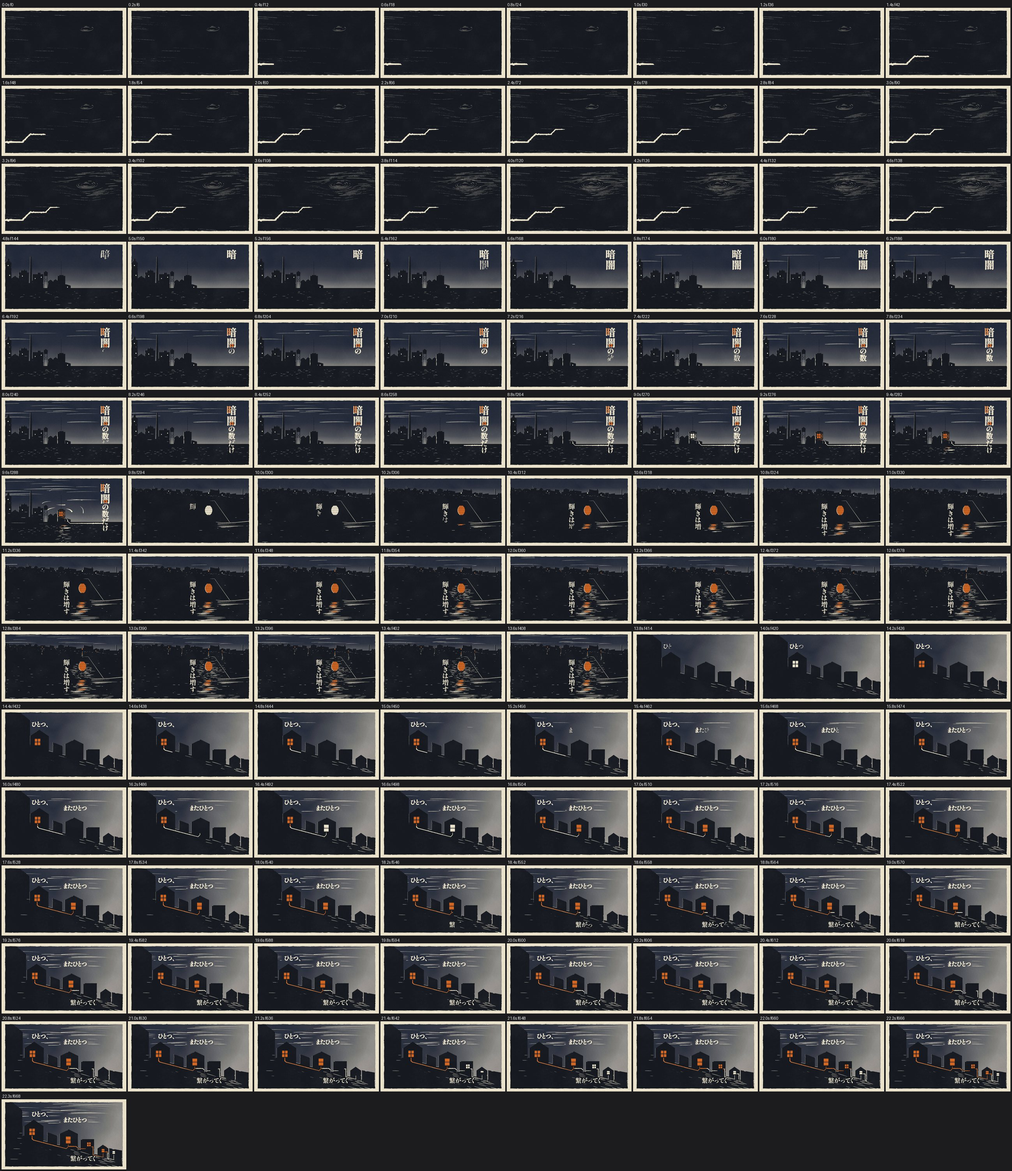
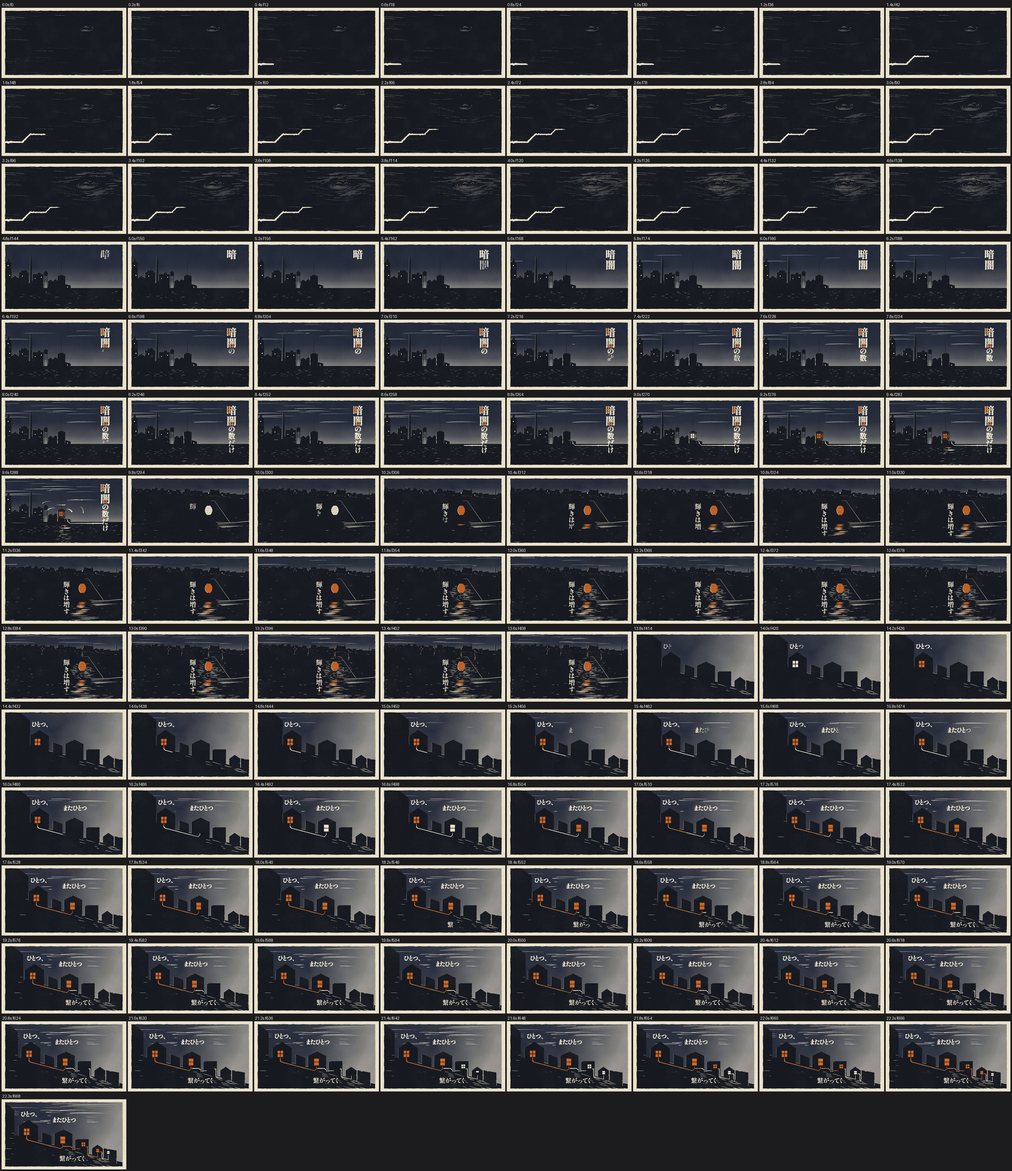
mv-yoake art v7 第2段: 区間 A2 の最終の書き出し(S4 の 2.5D 強め)の確認画像と実測、MOTION_PART2_REVIEW の仕上げ
Claude-Session: https://claude.ai/code/session_01DHqeTrY16kMSHw1xjVFCqk

diff --git a/claude-video-skill/examples/mv-yoake/art-direction/MOTION_PART2_REVIEW.md b/claude-video-skill/examples/mv-yoake/art-direction/MOTION_PART2_REVIEW.md
@@ -15,7 +15,7 @@
 | 2.5D の比較(2回目、見て分かる強さ) | `/tmp/claude-0/-home-user-codeX/d5574950-8955-5b0b-bf13-7c6be25a8755/scratchpad/mv2d/yoake_25d_test_dawn_25d_v2.mp4`・`yoake_25d_test_dawn_sidebyside_v2.mp4`、`/tmp/claude-0/-home-user-codeX/d5574950-8955-5b0b-bf13-7c6be25a8755/scratchpad/mv2d/yoake_25d_test_s4_2d.mp4`・`yoake_25d_test_s4_25d_v2.mp4`・`yoake_25d_test_s4_sidebyside_v2.mp4`(1回目の S4 は `yoake_25d_test_s4_25d.mp4`・`_sidebyside.mp4`) |
 | 効果を切った版(clean、音なし) | `/tmp/claude-0/-home-user-codeX/d5574950-8955-5b0b-bf13-7c6be25a8755/scratchpad/mv2d/m2/video_{A,M,B}_clean.mp4` |
 | 540px 幅の 0.2 秒刻み(大きいので repo の外) | `/tmp/claude-0/-home-user-codeX/d5574950-8955-5b0b-bf13-7c6be25a8755/scratchpad/m2/sheets_{A,M,B}/*_contact_0.2s_540.jpg`、`*_check_540.jpg` |
-| 確認画像(repo、JPEG) | `frames/motion2/`: `{A2,M,B2}_contact_0.2s.jpg`(0.2 秒刻み)、`*_boundaries.jpg`(カットの境目)、`*_fx_off_clean.jpg`(look と clean)、`A2_check_540.jpg`、2.5D の比較 `test25d_*.jpg`・`test25d_still.txt`、太陽の直し `fix_sun_1431_1520.jpg` |
+| 確認画像(repo、JPEG) | `frames/motion2/`: `{A2,M,B2}_contact_0.2s.jpg`(0.2 秒刻み)、`*_boundaries.jpg`(カットの境目)、`*_fx_off_clean.jpg`(look と clean)、2.5D の比較 `test25d_*.jpg`・`test25d_still.txt`、太陽の直し `fix_sun_1431_1520.jpg` |
 | 実測(repo) | `frames/motion2/measure_{A2,M,B2}/`: `sync_measured.md`(音ハメ)、`lyric_check.md`(歌詞の可読)、`measure.json`、`review_*.txt`(review_checks)、`*_summary.json`(刀の入れ替わり・seek・別ページの照合)、`hyperframes_check.txt` |
 | 描画 | `src/cand_a7_cam.js`(2.5D の層のカメラ)、`src/cand_a7_mid.js`(S5〜S9)、`src/cand_a7_open.js`(S1〜S4。S4 の 2.5D と枝分かれ、S3・S1 の音ハメ)、`src/cand_a7_dawn.js`(夜明け。A の 2.5D、太陽、1349)、`src/cand_a7.js`(ばれんの消去を画面座標に)、`src/cand_a7_cuts.js`(`A7_DRAW`、`A7_CAM_DEFAULT = true`)。開発ページ `src/styleframes_v7.html?f=<曲のコマ>&v=look|clean|mask[&cam=0|1]` |
 | 道具 | `src/motion1/tools/`: `partrange.py`(区間の名前)、`build_hf.sh`・`render_part.sh`(区間・cam を指定)、`measure.py`(区間 M を追加)、`flicker_check.mjs`(cam を指定)・`flicker_where.mjs`(戻った画素の場所)、`seek_check.mjs`(`SEEK_EVERY`)、`still.py`・`pairs.py`・`sbs.sh`(静止の物差し・並べた比較)。間の台帳 `holds_part{A,M,B}.json` |
@@ -139,15 +139,15 @@ MOTION_PART1_REVIEW §9 の計画どおり。絵は v6 の S5・S7・S8・S9 と
 | 黒コマ・白フラッシュ | **PASS**(平均の明るさの最小 54.8) | **PASS**(54.3) | **PASS**(68.7) | `measure.json`、`review_*.txt` |
 | 音量(曲のまま、区間で切った物) | -14.2 LUFS / -2.5 dBTP | -13.4 LUFS / -3.1 dBTP | -13.3 LUFS / -2.7 dBTP | `review_*.txt` |
 | seek 決定性(`tl.seek(t,false)` 順・`hf-seek` 逆順・飛ばし2通り) | **PASS: ALL_SAME**(3 コマごと 223 コマ×4 通り) | **PASS: ALL_SAME**(2 コマごと 336 コマ×4 通り) | **PASS: ALL_SAME**(2 コマごと 125 コマ×4 通り) | `measure_*/seek_summary.json` |
-| 別のプロセス・別のページ(開発ページ)との照合 | <<A_DEV>> | **一致** 10/10 コマ | **一致** 8/8 コマ | `devhash_summary.json` |
+| 別のプロセス・別のページ(開発ページ)との照合 | **一致** 8/8 コマ | **一致** 10/10 コマ | **一致** 8/8 コマ | `devhash_summary.json` |
 | 刀の入れ替わり(cam=0) | 合計 42 画素、最大 12(243) | 合計 115 画素、最大 22(954: S7 の大きい字の粗彫りの縁のにじみ)。50 画素を超えるコマ 0 | 合計 27 画素、最大 3。**1349 は 1 画素**(第1段 139) | `flicker_cam0_summary.json` |
 | 2.5D のカメラの動き | S4: 段の頭で主の層 約 5px/コマ、手前の家 約 7px/コマ。往復・手ぶれなし | S8: 一定 約 1px/コマ | 夜明け A: 段の頭で前景の端 約 8px/コマ。1402 で止まる | 式から(`cand_a7_cam.js`、各カットの `A7_CAM.set`) |
 | 音ハメ(強いアクセント 0.7 以上の事象) | **全部 ±1 以内**(104: 0、350: 0、387: 0、第1段は -2・+2・+2) | 755・769・812・1198 は 0。押しの事象も ±1(802 だけ -3: 押しの間が 4 コマで、前の押しの山と区別できない測り方の限界)。窓・列車の琥珀は「拍のコマで彫り、2 コマ後に刷る」設計どおり +2 | 1340: +1、1349〜1397: 0、1415・1425・1481・1462・1538: 0、1557: -1 | `sync_measured.md` |
 | 歌詞の可読 | 25 字とも語頭から 0〜+1 コマで彫り始め。読める(85%)のは +10 以内。ただし「く」(558)は測定で +32: 2.5D で字が動いて測る箱からずれたため。等倍で見て +5 で読める(確認済み) | 43 字とも 0〜+1 で彫り(刷り)始め、+7 以内に読める | 5 字と題: 第1段と同じ(+1〜で刷り始め) | `lyric_check.md` |
 | 静止(`review_checks.py`) | **FAIL(合計の予算)**: 0.6 秒を超える静止は 0(登録した間を除く)。0.2〜0.37 秒の拍待ちが 8 か所で合計 3.9 秒 > 予算 0.74 秒。**S4 後半の静止(第1段の FAIL)は解消** | **FAIL(合計の予算)**: 0.6 秒を超える静止は 0(登録した 2 つを除く)。0.2〜0.53 秒の拍待ちが合計 3.6 秒 | **PASS**(台帳つき。台帳が全体の 53% の注意は第1段と同じ) | `review_*.txt`、`holds_part{A,M,B}.json` |
 | hyperframes lint | **PASS** 0 エラー・0 警告 | **PASS** | **PASS** | — |
-| hyperframes check | <<A_CHK>> | **PASS**(エラー 0。警告 `canvas_content_at_edge`=S6 は紙のふちを外した全面、`film_silent`=音は書き出し後に ffmpeg で付ける) | **PASS**(エラー 0。警告 `canvas_content_at_edge`=夜明けは全面) | `measure_*/hyperframes_check.txt` |
-| 540px・clean | 語頭+10 で字は全部読める。動きは clean でも全部残る(動きは刀の形と刷りの 0/1 と層の位置だけ) | 同じ | 同じ | `*_check_540.jpg`(repo の外)、`*_fx_off_clean.jpg` |
+| hyperframes check | **PASS**(エラー 0。警告 `film_silent`=音は書き出し後に ffmpeg で付ける。情報 `audio_none`) | **PASS**(エラー 0。警告 `canvas_content_at_edge`=S6 は紙のふちを外した全面、`film_silent`=音は書き出し後に ffmpeg で付ける) | **PASS**(エラー 0。警告 `canvas_content_at_edge`=夜明けは全面) | `measure_*/hyperframes_check.txt` |
+| 540px・clean | 540px のシートは repo の外(§0)。語頭+10 で字は全部読める。動きは clean でも全部残る(動きは刀の形と刷りの 0/1 と層の位置だけ) | 同じ | 同じ | `*_check_540.jpg`(repo の外)、`*_fx_off_clean.jpg` |
 
 ## 6. 完了 / 未実施 / 失敗 / 次の判断
 | 区分 | 内容 |

diff --git a/claude-video-skill/examples/mv-yoake/art-direction/frames/motion2/measure_A2/lyric_check.md b/claude-video-skill/examples/mv-yoake/art-direction/frames/motion2/measure_A2/lyric_check.md
@@ -12,16 +12,16 @@
 | 増 | 311 | 要確認 | 311 | +0 | 316 | +5 |
 | す | 319 | 要確認 | 319 | +0 | 324 | +5 |
 | ひ | 409 | 確認済み | 409 | +0 | 409 | +0 |
-| と | 413 | 確認済み | 413 | +0 | 420 | +7 |
-| つ | 417 | 確認済み | 417 | +0 | 424 | +7 |
-| 、 | 421 | 確認済み | 421 | +0 | 428 | +7 |
-| ま | 453 | 確認済み | 453 | +0 | 460 | +7 |
+| と | 413 | 確認済み | 413 | +0 | 413 | +0 |
+| つ | 417 | 確認済み | 417 | +0 | 417 | +0 |
+| 、 | 421 | 確認済み | 421 | +0 | 421 | +0 |
+| ま | 453 | 確認済み | 453 | +0 | 454 | +1 |
 | た | 457 | 確認済み | 457 | +0 | 466 | +9 |
-| ひ | 461 | 確認済み | 461 | +0 | 468 | +7 |
-| と | 465 | 確認済み | 465 | +0 | 472 | +7 |
-| つ | 469 | 確認済み | 469 | +0 | 476 | +7 |
-| 繋 | 540 | 要確認 | 541 | +1 | 546 | +6 |
-| が | 545 | 要確認 | 545 | +0 | 552 | +7 |
-| っ | 550 | 要確認 | 550 | +0 | 555 | +5 |
-| て | 553 | 要確認 | 553 | +0 | 558 | +5 |
-| く | 558 | 要確認 | 558 | +0 | 563 | +5 |
+| ひ | 461 | 確認済み | 461 | +0 | 463 | +2 |
+| と | 465 | 確認済み | 465 | +0 | 465 | +0 |
+| つ | 469 | 確認済み | 469 | +0 | 469 | +0 |
+| 繋 | 540 | 要確認 | 541 | +1 | 542 | +2 |
+| が | 545 | 要確認 | 545 | +0 | 554 | +9 |
+| っ | 550 | 要確認 | 551 | +1 | 558 | +8 |
+| て | 553 | 要確認 | 553 | +0 | 555 | +2 |
+| く | 558 | 要確認 | 559 | +1 | 590 | +32 |

diff --git a/claude-video-skill/examples/mv-yoake/art-direction/frames/motion2/measure_A2/sync_measured.md b/claude-video-skill/examples/mv-yoake/art-direction/frames/motion2/measure_A2/sync_measured.md
@@ -37,7 +37,7 @@
 | S4 溝②を押す 567 | 567 | 0.65 | 0.06 | 567 | +0 | 領域の変化画素の山(±3) |
 | S4 溝②を押す 576 | 576 | 0.59 | 0.34 | 576 | +0 | 領域の変化画素の山(±3) |
 | S4 溝②を押す 585 | 585 | 0.61 | 0.11 | 585 | +0 | 領域の変化画素の山(±3) |
-| S4 溝②を押す 614 | 614 | 0.57 | 0.22 | 613 | -1 | 領域の変化画素の山(±3) |
+| S4 溝②を押す 614 | 614 | 0.57 | 0.22 | 614 | +0 | 領域の変化画素の山(±3) |
 | S4 溝②を押す 623 | 623 | 0.6 | 0.24 | 623 | +0 | 領域の変化画素の山(±3) |
 | S4 溝②を押す 633 | 633 | 0.61 | 0.28 | 633 | +0 | 領域の変化画素の山(±3) |
 | S4 3つ目の窓の枠 | 642 | 0.7 | 0.14 | 642 | +0 | 領域の変化画素の山(±3) |
